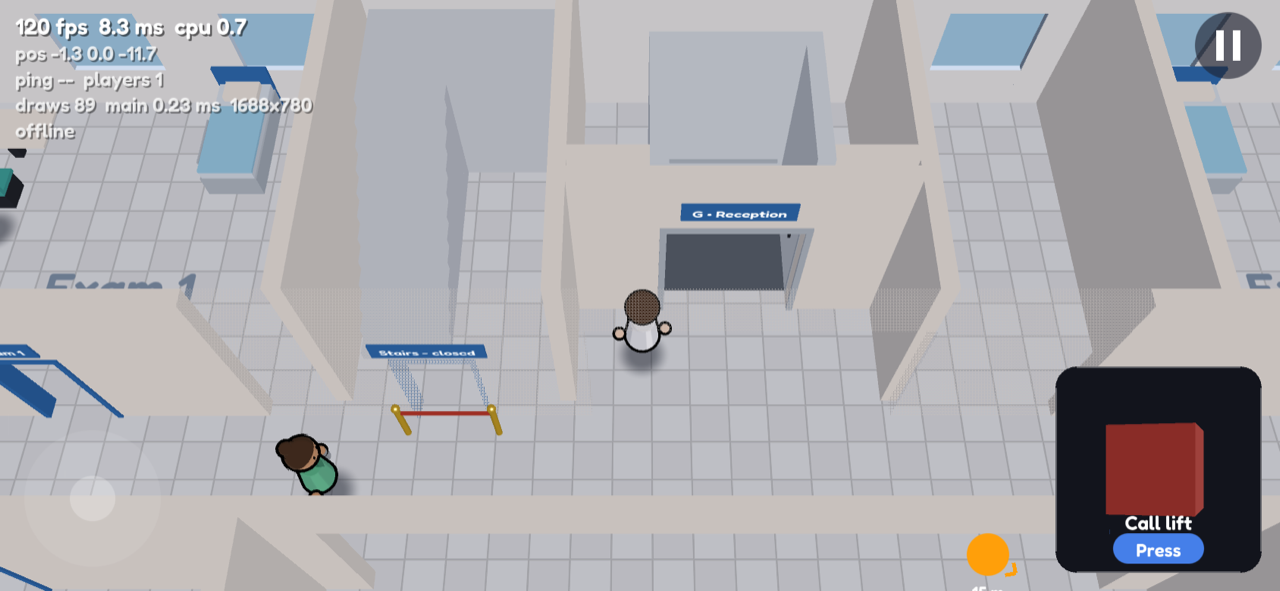
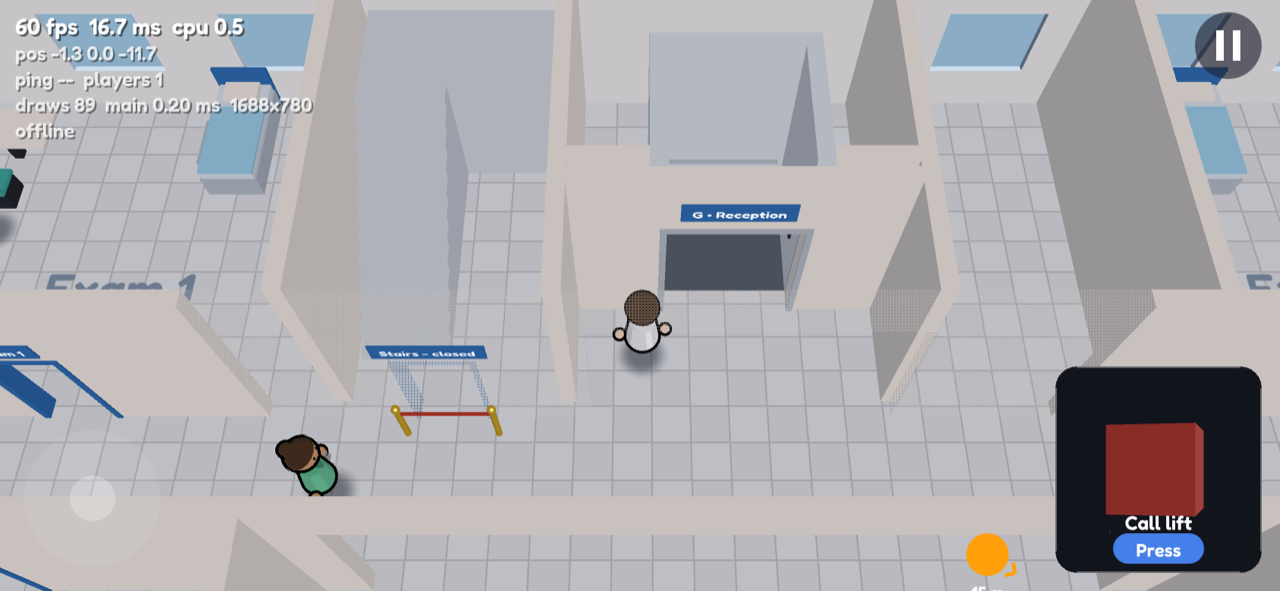
step 8: lift panel is a tall 3D rectangle turned inward towards the middle of the screen

diff --git a/game/elevator_panel.c b/game/elevator_panel.c
@@ -8,10 +8,15 @@
 #define SLIDE_IN_S 0.22f
 #define SLIDE_OUT_S 0.25f
 #define PRESS_DELAY 0.4f
-#define SQUARE_FRACTION 0.42f /* of the safe width, at most the safe height */
-#define VIEW_HALF 0.74f       /* how much of the cube's space the square shows, each way from the centre */
-#define CUBE_YAW 20.0f
-#define CUBE_PITCH 12.0f
+#define HEIGHT_FRACTION 0.95f /* of the safe height */
+#define VIEW_ASPECT 0.72f     /* the area it is drawn in, width / height */
+#define VIEW_HALF 0.6f        /* how much of its height that area shows, up and down from the centre */
+#define SLAB_HALF_W 0.31f
+#define SLAB_HALF_H 0.5f
+#define SLAB_HALF_D 0.12f
+#define SLAB_YAW (-20.0f)     /* the buttons face the middle of the screen */
+#define SLAB_PITCH 22.0f
+#define EDGE_GAP 16.0f
 #define BUTTON_H 0.05f
 #define BUTTON_SINK 0.04f
 #define PRESS_ANIM_S 0.3f
@@ -28,10 +33,12 @@ bool elevator_panel_init(ElevatorPanel *p, GfxContext *g, Arena *scratch, int fl
         return false;
     }
     const HMM_Vec4 white = HMM_V4(1, 1, 1, 1);
-    mb_box(&mb, HMM_M4D(1.0f), HMM_V3(0.5f, 0.5f, 0.5f), white);
-    p->cube = mb_upload(&mb, g);
+    /* darker sides and top under a light front plate, so it reads as a solid */
+    mb_box(&mb, HMM_M4D(1.0f), HMM_V3(SLAB_HALF_W, SLAB_HALF_H, SLAB_HALF_D), HMM_V4(0.55f, 0.58f, 0.64f, 1.0f));
+    mb_box(&mb, HMM_Translate(HMM_V3(0.0f, 0.0f, SLAB_HALF_D)), HMM_V3(SLAB_HALF_W - 0.004f, SLAB_HALF_H - 0.004f, 0.002f), white);
+    p->slab = mb_upload(&mb, g);
     /* the column, top floor first, under the floor indicator */
-    const float top = 0.24f, bottom = -0.38f;
+    const float top = 0.2f, bottom = -0.38f;
     const float spacing = p->floors > 1 ? (top - bottom) / (float)(p->floors - 1) : 0.0f;
     p->button_r = mg_minf(0.135f, spacing > 0.0f ? spacing * 0.44f : 0.135f);
     for (int i = 0; i < p->floors; i++) {
@@ -45,28 +52,28 @@ bool elevator_panel_init(ElevatorPanel *p, GfxContext *g, Arena *scratch, int fl
     mb_cylinder(&mb, face, 1.0f, 0.004f, 28, white);
     p->ring = mb_upload(&mb, g);
     arena_reset_to(scratch, mark);
-    return p->cube != GFX_MESH_NONE && p->button != GFX_MESH_NONE && p->ring != GFX_MESH_NONE;
+    return p->slab != GFX_MESH_NONE && p->button != GFX_MESH_NONE && p->ring != GFX_MESH_NONE;
 }
 
 bool elevator_panel_visible(const ElevatorPanel *p) { return p->slide > 0.001f; }
 
-/* Turned so its top and left sides show: it reads as a cube */
-static HMM_Mat4 cube_root(float extra_yaw)
+/* Turned inward, tipped so its top shows */
+static HMM_Mat4 slab_root(float extra_yaw)
 {
-    return HMM_MulM4(HMM_Rotate_RH(HMM_AngleDeg(CUBE_PITCH), HMM_V3(1, 0, 0)), HMM_Rotate_RH(HMM_AngleDeg(CUBE_YAW + extra_yaw), HMM_V3(0, 1, 0)));
+    return HMM_MulM4(HMM_Rotate_RH(HMM_AngleDeg(SLAB_PITCH), HMM_V3(1, 0, 0)), HMM_Rotate_RH(HMM_AngleDeg(SLAB_YAW + extra_yaw), HMM_V3(0, 1, 0)));
 }
 
-static HMM_Vec3 cube_eye(void) { return HMM_V3(0.0f, 0.0f, VIEW_HALF / tanf(HMM_AngleDeg(FOV_DEG * 0.5f))); }
+static HMM_Vec3 slab_eye(void) { return HMM_V3(0.0f, 0.0f, VIEW_HALF / tanf(HMM_AngleDeg(FOV_DEG * 0.5f))); }
 
-static HMM_Mat4 cube_view_proj(void)
+static HMM_Mat4 slab_view_proj(void)
 {
-    return HMM_MulM4(HMM_Perspective_RH_ZO(HMM_AngleDeg(FOV_DEG), 1.0f, 0.3f, 8.0f), HMM_LookAt_RH(cube_eye(), HMM_V3(0, 0, 0), HMM_V3(0, 1, 0)));
+    return HMM_MulM4(HMM_Perspective_RH_ZO(HMM_AngleDeg(FOV_DEG), VIEW_ASPECT, 0.3f, 8.0f), HMM_LookAt_RH(slab_eye(), HMM_V3(0, 0, 0), HMM_V3(0, 1, 0)));
 }
 
-/* A point on the cube's front face, on screen */
+/* A point on the slab's front face, on screen */
 static void face_to_screen(const ElevatorPanel *p, float fx, float fy, float *x, float *y)
 {
-    const HMM_Vec4 c = HMM_MulM4V4(HMM_MulM4(cube_view_proj(), cube_root(0.0f)), HMM_V4(fx, fy, 0.5f, 1.0f));
+    const HMM_Vec4 c = HMM_MulM4V4(HMM_MulM4(slab_view_proj(), slab_root(0.0f)), HMM_V4(fx, fy, SLAB_HALF_D, 1.0f));
     *x = p->x + (c.X / c.W * 0.5f + 0.5f) * p->w;
     *y = p->y + (0.5f - c.Y / c.W * 0.5f) * p->h;
 }
@@ -82,8 +89,9 @@ void elevator_panel_update(ElevatorPanel *p, float dt, bool open, const ui_frame
         p->press_anim[i] = mg_maxf(p->press_anim[i] - dt / PRESS_ANIM_S, 0.0f);
     }
     const float ease = 1.0f - (1.0f - p->slide) * (1.0f - p->slide);
-    p->w = p->h = mg_minf(ui_safe_h(f), ui_safe_w(f) * SQUARE_FRACTION);
-    p->x = ui_safe_right(f) - p->w + (1.0f - ease) * (p->w + f->inset_r + 8.0f); /* right edge: the stick owns the left */
+    p->h = ui_safe_h(f) * HEIGHT_FRACTION;
+    p->w = p->h * VIEW_ASPECT;
+    p->x = ui_safe_right(f) - p->w - EDGE_GAP + (1.0f - ease) * (p->w + f->inset_r + EDGE_GAP + 8.0f); /* right edge: the stick owns the left */
     p->y = ui_safe_top(f) + (ui_safe_h(f) - p->h) * 0.5f;
 }
 
@@ -128,25 +136,25 @@ void elevator_panel_draw_3d(const ElevatorPanel *p, GfxContext *g, int current_f
     if (!elevator_panel_visible(p) || p->h <= 0.0f) {
         return;
     }
-    const HMM_Mat4 vp = cube_view_proj();
-    gfx_inset_begin(g, p->x, p->y, p->w, p->h, &vp, cube_eye(), 0.02f, 0.05f, true);
+    const HMM_Mat4 vp = slab_view_proj();
+    gfx_inset_begin(g, p->x, p->y, p->w, p->h, &vp, slab_eye(), 0.02f, 0.05f, true);
     const float ease = 1.0f - (1.0f - p->slide) * (1.0f - p->slide);
-    const HMM_Mat4 root = cube_root(-40.0f * (1.0f - ease)); /* turns to face you as it comes in */
+    const HMM_Mat4 root = slab_root(40.0f * (1.0f - ease)); /* turns inward as it comes in */
     GfxMaterial steel = mat_toon(mg_rgb(0xCDD5DF), 0.0f);
-    gfx_draw(g, p->cube, &root, &steel, GFX_DRAW_NO_SHADOW);
+    gfx_draw(g, p->slab, &root, &steel, GFX_DRAW_NO_SHADOW);
     const float r = p->button_r;
     for (int i = 0; i < p->floors; i++) {
         const float t = 1.0f - p->press_anim[i];
         const float sink = p->press_anim[i] > 0.0f ? BUTTON_SINK * sinf(t * HMM_PI32) : 0.0f; /* down and back up */
         const float grow = 1.0f - 0.08f * (sink / BUTTON_SINK);
         const float h = BUTTON_H - sink;
-        const HMM_Mat4 m = HMM_MulM4(root, HMM_MulM4(HMM_Translate(HMM_V3(0.0f, p->button_y[i], 0.5f)), HMM_Scale(HMM_V3(r * grow, r * grow, h))));
+        const HMM_Mat4 m = HMM_MulM4(root, HMM_MulM4(HMM_Translate(HMM_V3(0.0f, p->button_y[i], SLAB_HALF_D + 0.002f)), HMM_Scale(HMM_V3(r * grow, r * grow, h))));
         GfxMaterial btn = p->pressed == i ? mat_toon_emissive(mg_rgb(0xFFD166), 0.9f) : mat_toon(mg_rgb(0xFFFFFF), 0.0f);
         gfx_draw(g, p->button, &m, &btn, GFX_DRAW_NO_SHADOW);
     }
     const float rr = r * 1.18f;
     if (current_floor >= 0 && current_floor < p->floors && (p->blink_t <= 0.0f || fmodf(p->blink_t, 0.16f) < 0.08f)) { /* where the car is */
-        const HMM_Mat4 m = HMM_MulM4(root, HMM_MulM4(HMM_Translate(HMM_V3(0.0f, p->button_y[current_floor], 0.5f)), HMM_Scale(HMM_V3(rr, rr, 1.0f))));
+        const HMM_Mat4 m = HMM_MulM4(root, HMM_MulM4(HMM_Translate(HMM_V3(0.0f, p->button_y[current_floor], SLAB_HALF_D + 0.002f)), HMM_Scale(HMM_V3(rr, rr, 1.0f))));
         GfxMaterial dim = mat_toon_emissive(mg_rgb(0x5A7FB0), 0.5f);
         gfx_draw(g, p->ring, &m, &dim, GFX_DRAW_NO_SHADOW);
     }
@@ -155,7 +163,7 @@ void elevator_panel_draw_3d(const ElevatorPanel *p, GfxContext *g, int current_f
 
 void elevator_panel_draw_ui(const ElevatorPanel *p, GfxContext *g, const TextFont *f, int current_floor, const char *(*name)(int))
 {
-    if (!elevator_panel_visible(p) || p->slide < 0.9f) { /* the labels follow the settled cube */
+    if (!elevator_panel_visible(p) || p->slide < 0.9f) { /* the labels follow the settled slab */
         return;
     }
     float ix, iy;

diff --git a/game/elevator_panel.h b/game/elevator_panel.h
@@ -1,4 +1,4 @@
-/* M8: the lift's 3D button panel, a floating cube at the right of the safe area while the player
+/* M8: the lift's 3D button panel, a floating 3D rectangle at the right of the safe area while the player
  * stands in the car. Drawn in the main pass ahead of the world (a depth-range inset); the column of
  * buttons comes from the lift's floor count. Tap-only through the touch targets. */
 #ifndef MG_ELEVATOR_PANEL_H
@@ -12,13 +12,13 @@
 #define LIFT_PANEL_TAP_ID 0xFFFFFF00u /* + floor, in TouchControls.targets */
 
 typedef struct ElevatorPanel {
-    GfxMeshId cube, button, ring;
+    GfxMeshId slab, button, ring;
     int floors;
-    float button_y[LIFT_PANEL_FLOORS]; /* on the cube's face, -0.5 .. 0.5 */
+    float button_y[LIFT_PANEL_FLOORS]; /* on the slab's face, -0.5 .. 0.5 */
     float button_r;
     float press_anim[LIFT_PANEL_FLOORS]; /* 1 just pressed .. 0 */
     float slide;         /* 0 hidden .. 1 shown */
-    float x, y, w, h;    /* the square the cube is drawn in, pt */
+    float x, y, w, h;    /* the area the slab is drawn in, pt */
     int pressed;         /* -1 none */
     float press_t;       /* time until the ride starts */
     float blink_t;       /* tapped the floor we are on */

diff --git a/CLAUDE.md b/CLAUDE.md
@@ -400,7 +400,7 @@ ro.docvex.mobilegame --offline --time 19`, then export the
 - `preview_desc_t` (per interactable: `mesh` or `look`, `scale`, `yaw_offset`, `y_offset`, `color`) is what the card draws. Debug: Developer -> Show ranges, Show active id, Force elevator panel, Preview any mesh, Show safe rect.
 - `--autotest interact`: a call button, a marker and the receptionist (panel up, drag does nothing, a tap fires exactly once, walking onto the marker does not), the lift's 3D buttons to floor 2 and back, an auto-ride with no panel, desktop hover, Pause -> Performance; the scan is compared per tick with brute force (panel up/down within 2 scans = 12 ticks). Screenshots in `docs/autotest/interact/`. Perf: scenarios `lift_panel` and `interact_npc` (the gate fails if the panel was up in under 90 % of the frames), `--no-panels` for the A/B.
 - The font is ASCII: `npc_data.c` folds Romanian letters in names and greetings to plain ones.
-- `game/elevator_panel.c`: while standing in the car, a floating 3D cube at the right of the safe area (square = 42 % of the safe width, at most its height, an inset drawn before the world) with the column of buttons on its front face; the column comes from the lift's floor count. A tap sinks and lights the button and dings, the ride starts 0.4 s later. Desktop: keys 0-9. Developer -> Force elevator panel. Auto-ride shows no panel; cancelling in the car does. Everything you tap to interact lives on the right (the preview, the cube, the greeting card beside the preview); the left is the stick.
+- `game/elevator_panel.c`: while standing in the car, a floating 3D rectangle at the right of the safe area, turned inward so the button face looks at the middle of the screen (95 % of the safe height, an inset drawn before the world), with the column of buttons on its front face; the column comes from the lift's floor count. A tap sinks and lights the button and dings, the ride starts 0.4 s later. Desktop: keys 0-9. Developer -> Force elevator panel. Auto-ride shows no panel; cancelling in the car does. Everything you tap to interact lives on the right (the preview, the lift rectangle, the greeting card beside the preview); the left is the stick.
 - NPCs in the preview are only a floating head (`AvatarPose.head_only`), no card or chip, with the "..." cloud beside it if they want to talk; a tap squashes and nods the head. Non-talkers are faded and do nothing.
 - `game/preview_panel.c`: the bottom-right card. `gfx_inset_begin` / `gfx_inset_end` draw a small 3D picture inside the main pass with its own viewport, camera and depth range (no render target). Tap-only through `TouchControls.targets`. Desktop: E.
 
